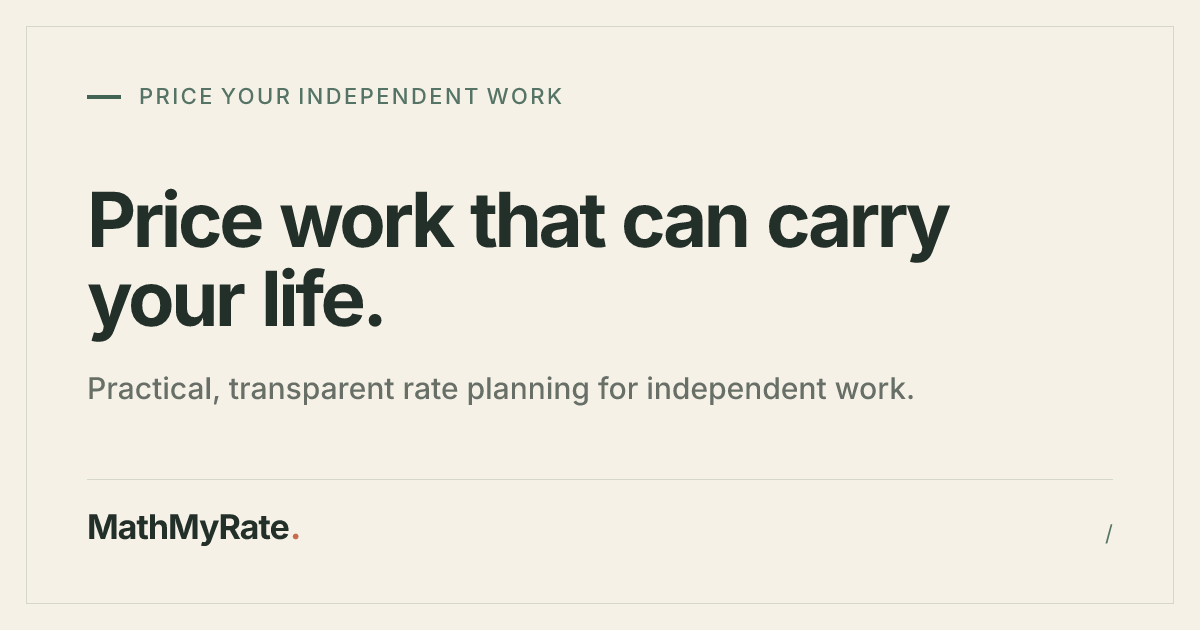
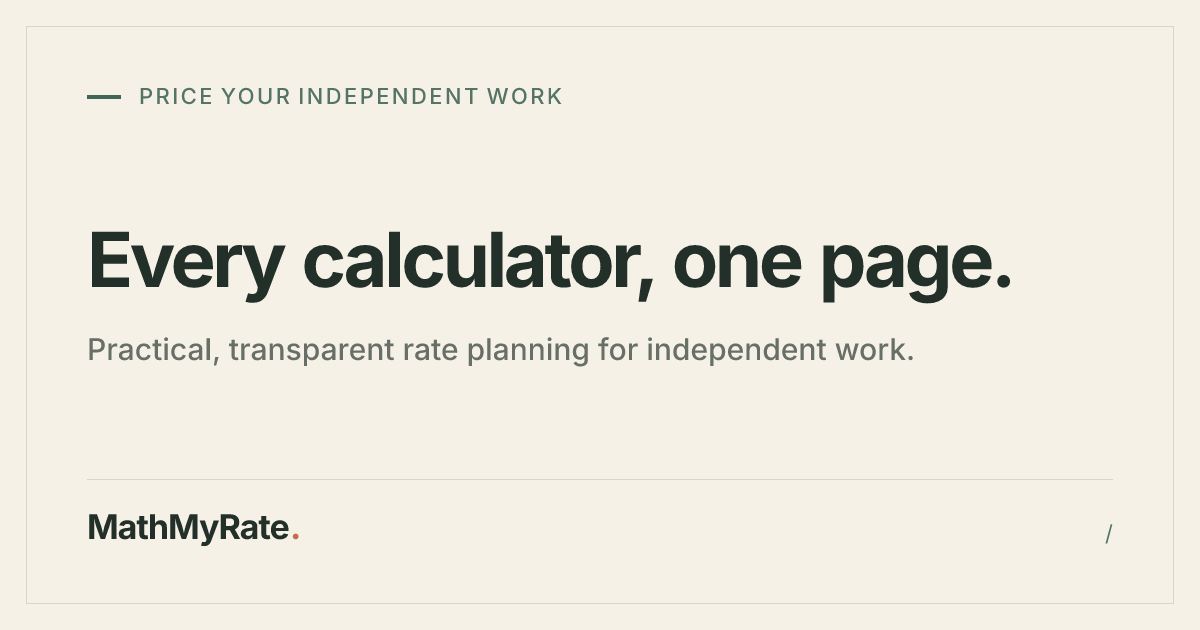
feat: update fee calculators and enhance form submission experience
- Revised titles and descriptions for various fee calculators to improve clarity and user engagement.
- Updated the layout of fee calculator pages for a more consistent and modern appearance.
- Implemented a new focus mechanism for invalid fields during form submission, enhancing user experience by guiding users to correct errors.
- Adjusted button types to prevent unintended form submissions, ensuring a smoother interaction with the calculators.

Changed region(s): [[0.0617, 0.3016, 0.8633, 0.573], [0.0617, 0.6032, 0.7708, 0.6333]]

diff --git a/apps/web/src/scripts/calculator-form.ts b/apps/web/src/scripts/calculator-form.ts
@@ -161,3 +161,13 @@ export function setFieldState(form: HTMLFormElement, problem?: InputProblem): vo
     summary.hidden = !problem;
   }
 }
+
+/** Scrolls the first invalid field into view and moves focus to it. */
+export function focusProblemField(form: HTMLFormElement, problem: InputProblem): void {
+  const field = form.querySelector<HTMLInputElement>(`[data-field="${problem.field}"]`);
+
+  if (field instanceof HTMLInputElement) {
+    field.scrollIntoView({ block: "center" });
+    field.focus({ preventScroll: true });
+  }
+}

diff --git a/docs/project-status.md b/docs/project-status.md
@@ -253,6 +253,43 @@ built `dist/`, driven through Argent):
 | `pnpm run build:web`                           | Passed; fourteen static pages emitted with `og:site_name/title/description/type` on every page. Without a configured site, `og:url`/`og:image`/`twitter:*` stay gated exactly like the canonical link; a temporary `--site` verification build emitted absolute per-page `og:image` URLs (`/og/home.png`, `/og/stripe.png`, `/og/default.png`, …), after which the config was reverted and rebuilt.                                                                                                                      |
 | Browser end-to-end                             | Exercised on Astro dev `:4399` via a headless Chromium (CDP) browser with an isolated profile: home, hourly, project, PayPal, and the 404 render with no error overlay; all nine `/og/*.png` URLs return `200 image/png`; the hourly calculator recalculated `$85,000 → $103.63` to `$100,000 → $120.81` (hand-derived revenue `$144,486.31` matched); the hourly-to-project transfer prefilled `$120.81`; the PayPal page kept its `$100 → $3.98 / $96.02` engine result; the 404 page still serves its recovery cards. |
 
+Local checks on 2026-09-15 for the home tool grid, compact page heroes, and
+form-submit hardening (working tree on `main`, commit `2081c79`, no PR yet;
+browser work run against Astro dev `:4399` after a dev-server restart and
+against Astro preview `:4321`, driven through Argent):
+
+| Check                                                              | Observed result                                                                                                                           |
+| ------------------------------------------------------------------ | ----------------------------------------------------------------------------------------------------------------------------------------- |
+| `pnpm run lint`                                                    | Passed with 0 findings (Oxlint + anti-slop); the new home script needed `lint:fix` + `format` for readable-spacing findings, re-run clean |
+| `pnpm run format:check`                                            | Passed                                                                                                                                    |
+| `pnpm run check-types`                                             | Passed: turbo check-types, including web `astro check` 0 errors, 0 warnings, 0 hints                                                      |
+| `pnpm run test` / Vitest calculator unit tests                     | 35 passed in `packages/calculators`                                                                                                       |
+| `pnpm build:web` (`PUBLIC_SERVER_URL=https://api.example.invalid`) | Passed; fourteen static pages emitted, including the rebuilt home page and regenerated `/og/home.png`                                     |
+| Browser end-to-end                                                 | See below                                                                                                                                 |
+
+Browser evidence: the home page lists all six calculators as cards with a
+labeled search filter (live count, empty state with a clear-search button that
+restores the grid and refocuses the field; matching tried case-insensitively
+against names and keywords; 375px viewport stays single-column). Page heroes
+were compacted on the home and all six calculator pages (small h1, no
+description paragraph); measured heights and search width confirmed in the
+browser. Submit hardening: every calculator now submits only through a plain
+`type="button"` update button with a click handler, with `onsubmit="return
+false"` as a guard, so a dead script can never trigger a native form
+submission; explicit submits focus and scroll to the first invalid field
+(`focusProblemField`), and the verified error flow shows the summary alert,
+field error, cleared results, disabled copy/transfer, and `aria-invalid`.
+
+Root-cause note for the reported "submit reloads the page": on a long-running
+dev server the page scripts silently failed to execute because Vite served a
+stale optimized dependency (`node_modules/.vite/deps/effect.js`) with HTTP 504
+after a dependency swap, so no event handlers attached and the browser fell
+back to the native form GET. The fix was `astro dev stop`, deleting
+`apps/web/node_modules/.vite`, and restarting the dev server; the hardened
+buttons and inline guard above now prevent the symptom even when a script
+fails to load. No rebuild was needed for production output, which never
+serves the dev dependency cache.
+
 For every future status update, record:
 
 1. date, branch, commit, and PR;
